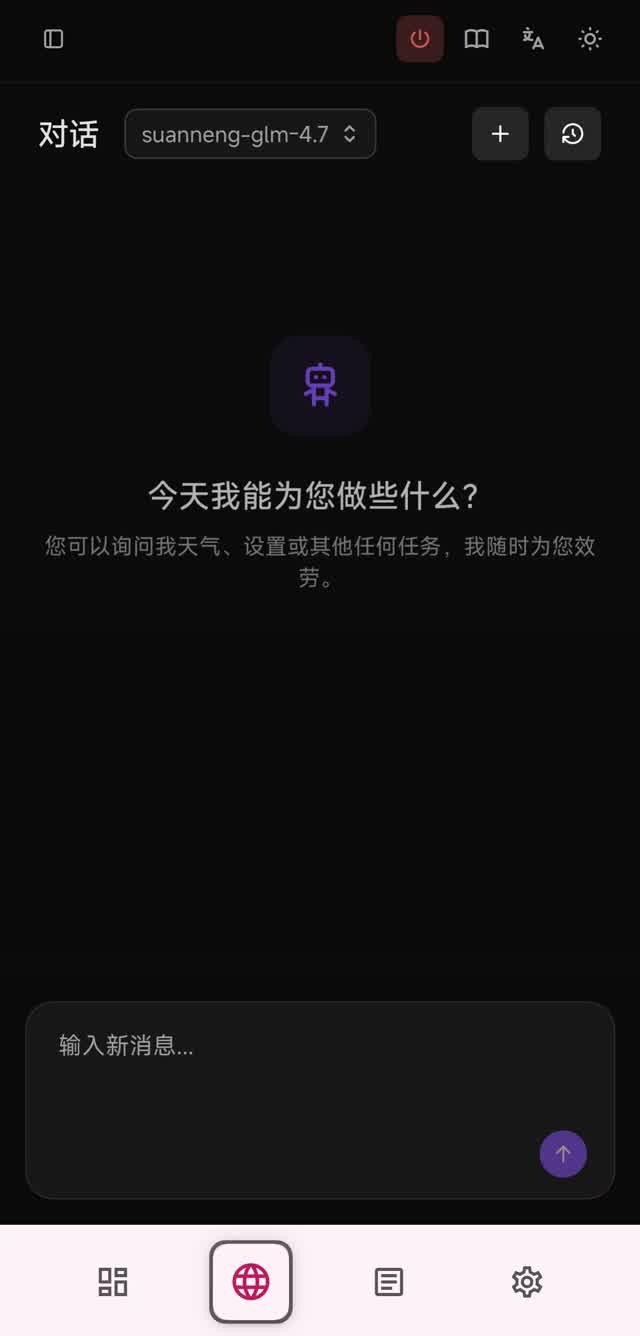
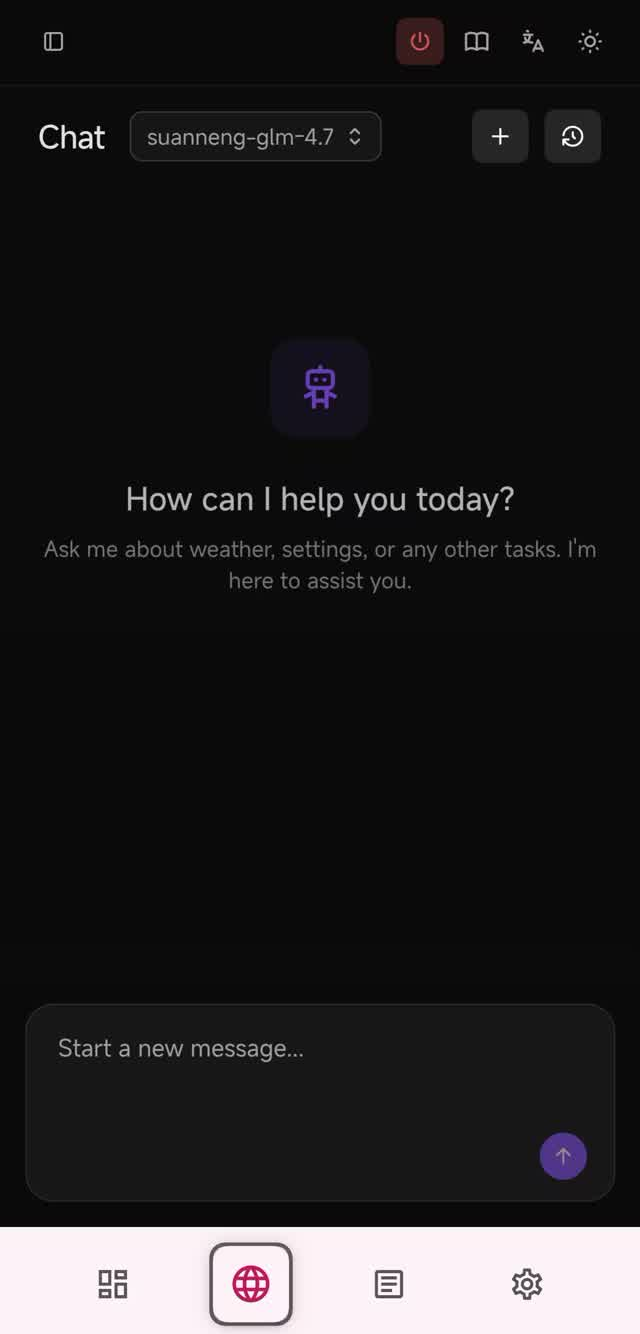
* Load zoneinfo from TZ and ZONEINFO env (#2279)

diff --git a/cmd/picoclaw/main.go b/cmd/picoclaw/main.go
@@ -9,6 +9,7 @@ package main
 import (
 	"fmt"
 	"os"
+	"time"
 
 	"github.com/spf13/cobra"
 
@@ -68,6 +69,21 @@ const (
 
 func main() {
 	fmt.Printf("%s", banner)
+
+	tz_env := os.Getenv("TZ")
+	if tz_env != "" {
+		fmt.Println("TZ environment:", tz_env)
+		zoneinfo_env := os.Getenv("ZONEINFO")
+		fmt.Println("ZONEINFO environment:", zoneinfo_env)
+		loc, err := time.LoadLocation(tz_env)
+		if err != nil {
+			fmt.Println("Error loading time zone:", err)
+		} else {
+			fmt.Println("Time zone loaded successfully:", loc)
+			time.Local = loc //nolint:gosmopolitan // We intentionally set local timezone from TZ env
+		}
+	}
+
 	cmd := NewPicoclawCommand()
 	if err := cmd.Execute(); err != nil {
 		os.Exit(1)
